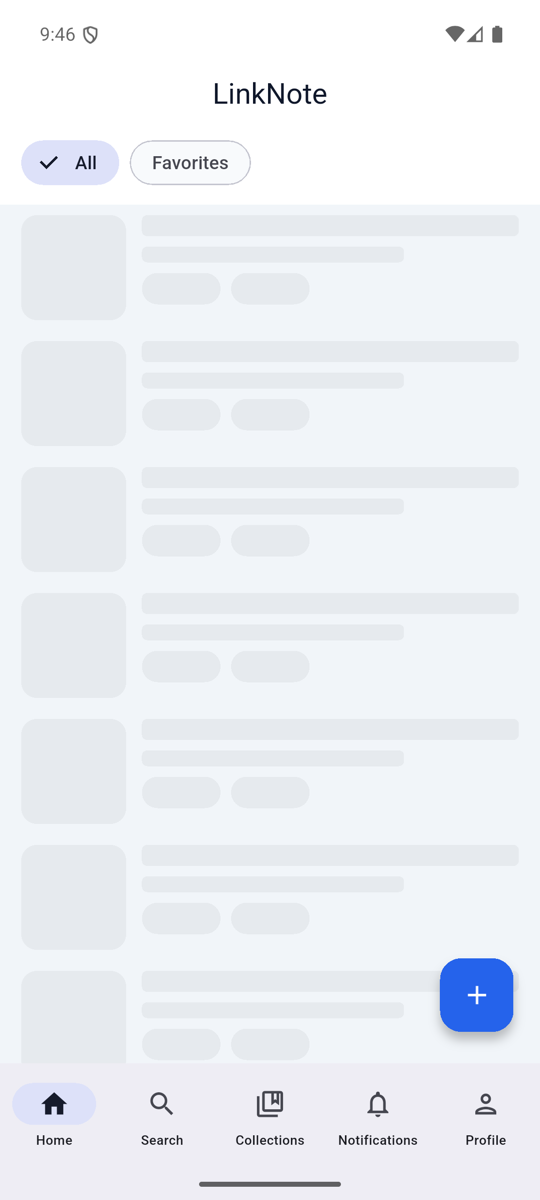
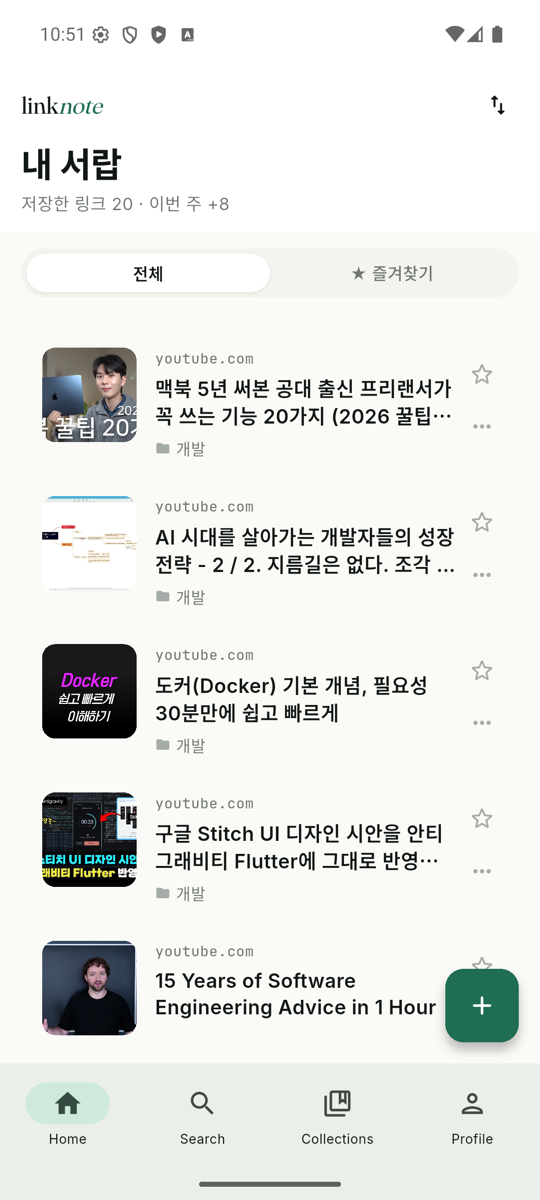
feat(pages): 실기기 스크린샷 교체 + README 실측 수치 정정
스크린샷 6장을 에뮬레이터에서 새로 촬영해 교체했다. 종전 에셋은 둘 다 쓸 수
없었다 — docs/assets 라이트 5장은 제거된 알림 탭이 찍혀 사이트 본문의 ADR-004
설명과 모순됐고, dark-mode-58 세트는 실데이터에 부적절한 도메인이 들어 있었다.

- 01_home / 02_search / 03_collections / 05_form (라이트),
  06_collection_dark / 07_home_dark (다크). 모두 현행 4탭 + 중앙 FAB UI.
- 05_form 은 URL 입력만으로 제목·설명이 채워진 상태를 담아 OG 자동 추출을 보여준다.
- 프로필 화면은 제외했다. 계정 이메일이 노출되는데 포트폴리오 정보가치는 가장 낮다.
- 촬영 시 화면 가장자리에 시스템이 그리는 라임색 테두리가 섞여, 중앙 기준 8px
  crop 후 축소하는 파이프라인으로 제거했다.

README 수치 정정 (2026-08-11 실측, 영문·한글 양쪽):
- 테스트 60 → 714 (119 파일). 레이어별 314/376/14 + 골든 3파일.
  골든은 런타임 variant 확장이라 선언 합(704)과 실행 합(714)이 다른 점을 주석에 남겼다.
- Dart 소스 156 → 209, 피처 모듈 6 → 9, 화면 13 → 16,
  공용 위젯 13 → 28, 의존성 21+10 → 31+18.
- **"zero cross-feature imports" 삭제.** 실측하니 18개 파일에서 28건의 피처 간
  presentation/data 참조가 있다(대부분 DI provider 배선). 사이트가 이 문구를 그대로
  옮겨 쓰고 있었는데, 저장소를 열면 30초면 반증되는 주장이라 양쪽 모두 정정했다.
  같은 이유로 사이트 지표의 "교차 import 0건"도 "각 3계층 분리"로 교체.

검증: flutter test 714/714, 1280px·768px 모두 scrollWidth == clientWidth (오버플로 0).

diff --git a/site/index.html b/site/index.html
@@ -70,7 +70,7 @@
       <div class="metric">
         <span class="metric-value">9</span>
         <span class="metric-label">피처 모듈</span>
-        <span class="metric-note">교차 import 0건</span>
+        <span class="metric-note">각 3계층 분리</span>
       </div>
       <div class="metric">
         <span class="metric-value">16</span>
@@ -428,8 +428,9 @@
         <span class="highlight-rank">02</span>
         <h3>피처 우선 Clean Architecture</h3>
         <p>
-          9개 피처가 각각 <code>presentation</code>/<code>domain</code>/<code>data</code>로 나뉜 독립 모듈이고
-          피처 간 교차 import가 없습니다. 공용 컴포넌트는 <code>shared/</code>, 횡단 관심사는 <code>core/</code>로 분리했습니다.
+          9개 피처가 각각 <code>presentation</code>/<code>domain</code>/<code>data</code> 3계층으로 나뉩니다.
+          공용 컴포넌트는 <code>shared/</code>, 횡단 관심사는 <code>core/</code>로 빼고,
+          피처 사이는 도메인 엔티티와 provider를 통해 연결됩니다.
         </p>
         <div class="evidence">
           <a href="https://github.com/kaywalker91/LinkNote/blob/main/docs/adr/003-feature-first-architecture.md" target="_blank" rel="noopener">ADR-003</a>
@@ -487,24 +488,28 @@
 
     <div class="shot-grid">
       <figure class="shot">
-        <img src="assets/screenshots/01_home.png" alt="LinkNote 홈 화면 — 저장한 링크 목록" loading="lazy" width="540" height="1200">
+        <img src="assets/screenshots/01_home.png" alt="LinkNote 홈 화면 — 저장한 링크 목록" loading="lazy" width="537" height="1200">
         <p>홈 <span>링크 목록 · 정렬 · 즐겨찾기</span></p>
       </figure>
       <figure class="shot">
-        <img src="assets/screenshots/02_search.png" alt="LinkNote 검색 화면 — 실시간 검색과 최근 검색어" loading="lazy" width="540" height="1200">
-        <p>검색 <span>디바운스 · 최근 검색어 · 태그</span></p>
+        <img src="assets/screenshots/02_search.png" alt="LinkNote 검색 화면 — 검색어가 하이라이트된 결과 목록" loading="lazy" width="537" height="1200">
+        <p>검색 <span>디바운스 · 검색어 하이라이트</span></p>
       </figure>
       <figure class="shot">
-        <img src="assets/screenshots/03_collections.png" alt="LinkNote 컬렉션 목록 화면" loading="lazy" width="540" height="1200">
+        <img src="assets/screenshots/03_collections.png" alt="LinkNote 컬렉션 목록 화면" loading="lazy" width="537" height="1200">
         <p>컬렉션 <span>폴더 관리 · 링크 수 집계</span></p>
       </figure>
       <figure class="shot">
-        <img src="assets/screenshots/05_form_dark.png" alt="LinkNote 링크 추가 화면 (다크 모드)" loading="lazy" width="540" height="1200">
-        <p>링크 추가 <span>OG 자동 추출 · 다크 모드</span></p>
+        <img src="assets/screenshots/05_form.png" alt="LinkNote 링크 추가 화면 — URL 입력만으로 제목과 설명이 자동 채워진 상태" loading="lazy" width="537" height="1200">
+        <p>링크 추가 <span>URL만 넣으면 OG 태그 자동 추출</span></p>
       </figure>
       <figure class="shot">
-        <img src="assets/screenshots/04_profile.png" alt="LinkNote 프로필 화면 — 사용자 정보와 설정" loading="lazy" width="540" height="1200">
-        <p>프로필 <span>통계 · 설정 · 테마 전환</span></p>
+        <img src="assets/screenshots/06_collection_dark.png" alt="LinkNote 컬렉션 상세 화면 (다크 모드) — 공개·잠금 토글" loading="lazy" width="537" height="1200">
+        <p>컬렉션 상세 <span>공개 · 잠금 토글 · 다크 모드</span></p>
+      </figure>
+      <figure class="shot">
+        <img src="assets/screenshots/07_home_dark.png" alt="LinkNote 홈 화면 (다크 모드)" loading="lazy" width="537" height="1200">
+        <p>홈 <span>같은 화면의 다크 테마</span></p>
       </figure>
     </div>
   </div>

diff --git a/README.md b/README.md
@@ -16,7 +16,7 @@ A mobile bookmark manager that auto-extracts metadata from any URL — save, org
 
 ## Highlights
 
-- **Feature-first Clean Architecture** — 6 independent feature modules with strict `presentation → domain → data` layer boundaries; zero cross-feature imports
+- **Feature-first Clean Architecture** — 9 feature modules, each split into `presentation → domain → data`; cross-feature wiring goes through domain entities and providers, with `shared/` and `core/` holding everything common
 - **Type-safe Error Handling** — `Result<T>` record type + `Failure` sealed class (Freezed). No thrown exceptions in business logic
 - **Riverpod 3.x Code Generation** — `@riverpod` annotation throughout; zero hand-written providers. AsyncNotifier for 3-state (loading/data/error) management
 - **4-Job CI Pipeline** — GitHub Actions: format + lint, test + coverage, build verification, Semgrep OWASP security scan
@@ -205,14 +205,19 @@ dart run build_runner build --delete-conflicting-outputs
 
 ## Testing
 
-Three-layer testing strategy with `mocktail` for mocking at boundary layers.
+Layered testing strategy with `mocktail` for mocking at boundary layers, plus Alchemist goldens
+pinning light/dark render output.
 
-| Layer | Tests | Scope |
-|-------|------:|-------|
-| Unit | 16 | UseCases, Repositories, Mappers |
-| Widget | 25 | Screen rendering, user interactions |
-| Integration | 19 | Multi-screen flows (login → add link, search → detail, collection create) |
-| **Total** | **60** | |
+| Layer | Tests | Files | Scope |
+|-------|------:|------:|-------|
+| Unit | 314 | 58 | UseCases, Repositories, Mappers, DataSources |
+| Widget | 376 | 55 | Screen rendering, user interactions, shared components |
+| Integration | 14 | 3 | Multi-screen flows (login → add link, search → detail, collection create) |
+| Golden | variant-driven | 3 | Light/dark render snapshots (Alchemist) |
+| **Total executed** | **714** | **119** | |
+
+> Layer counts are static `test(` / `testWidgets(` declarations; goldens expand at runtime via
+> variants, so the executed total (714) exceeds the sum of declarations. Measured 2026-08-11.
 
 ```bash
 # Run all tests
@@ -263,7 +268,7 @@ Phase 1  UI Screens (13 screens)    ████████████  Done
 Phase 2  CRUD & Interactions        ████████████  Done
 Phase 3  Backend Integration        ████████████  Done
 Phase 4  Local Cache & Performance  ████████████  Done
-Phase 5  Test Suite (52 tests)      ████████████  Done
+Phase 5  Test Suite                 ████████████  Done
 Phase 6  CI/CD & Release            ████████████  Done
 ```
 
@@ -275,13 +280,15 @@ Phase 6  CI/CD & Release            ████████████  Done
 
 | Metric | Value |
 |--------|-------|
-| Dart source files | 156 |
-| Feature modules | 6 |
-| Screens | 13 |
-| Shared widgets | 13 reusable components |
-| Test suites | 13 files, 60 test cases |
+| Dart source files | 209 (generated files excluded) |
+| Feature modules | 9 |
+| Screens | 16 |
+| Shared widgets | 28 reusable components |
+| Test suites | 119 files, 714 test cases |
 | CI pipeline jobs | 4 parallel |
-| Dependencies | 21 prod + 10 dev |
+| Dependencies | 31 prod + 18 dev |
+
+> Measured 2026-08-11 on `main`.
 
 ---
 
